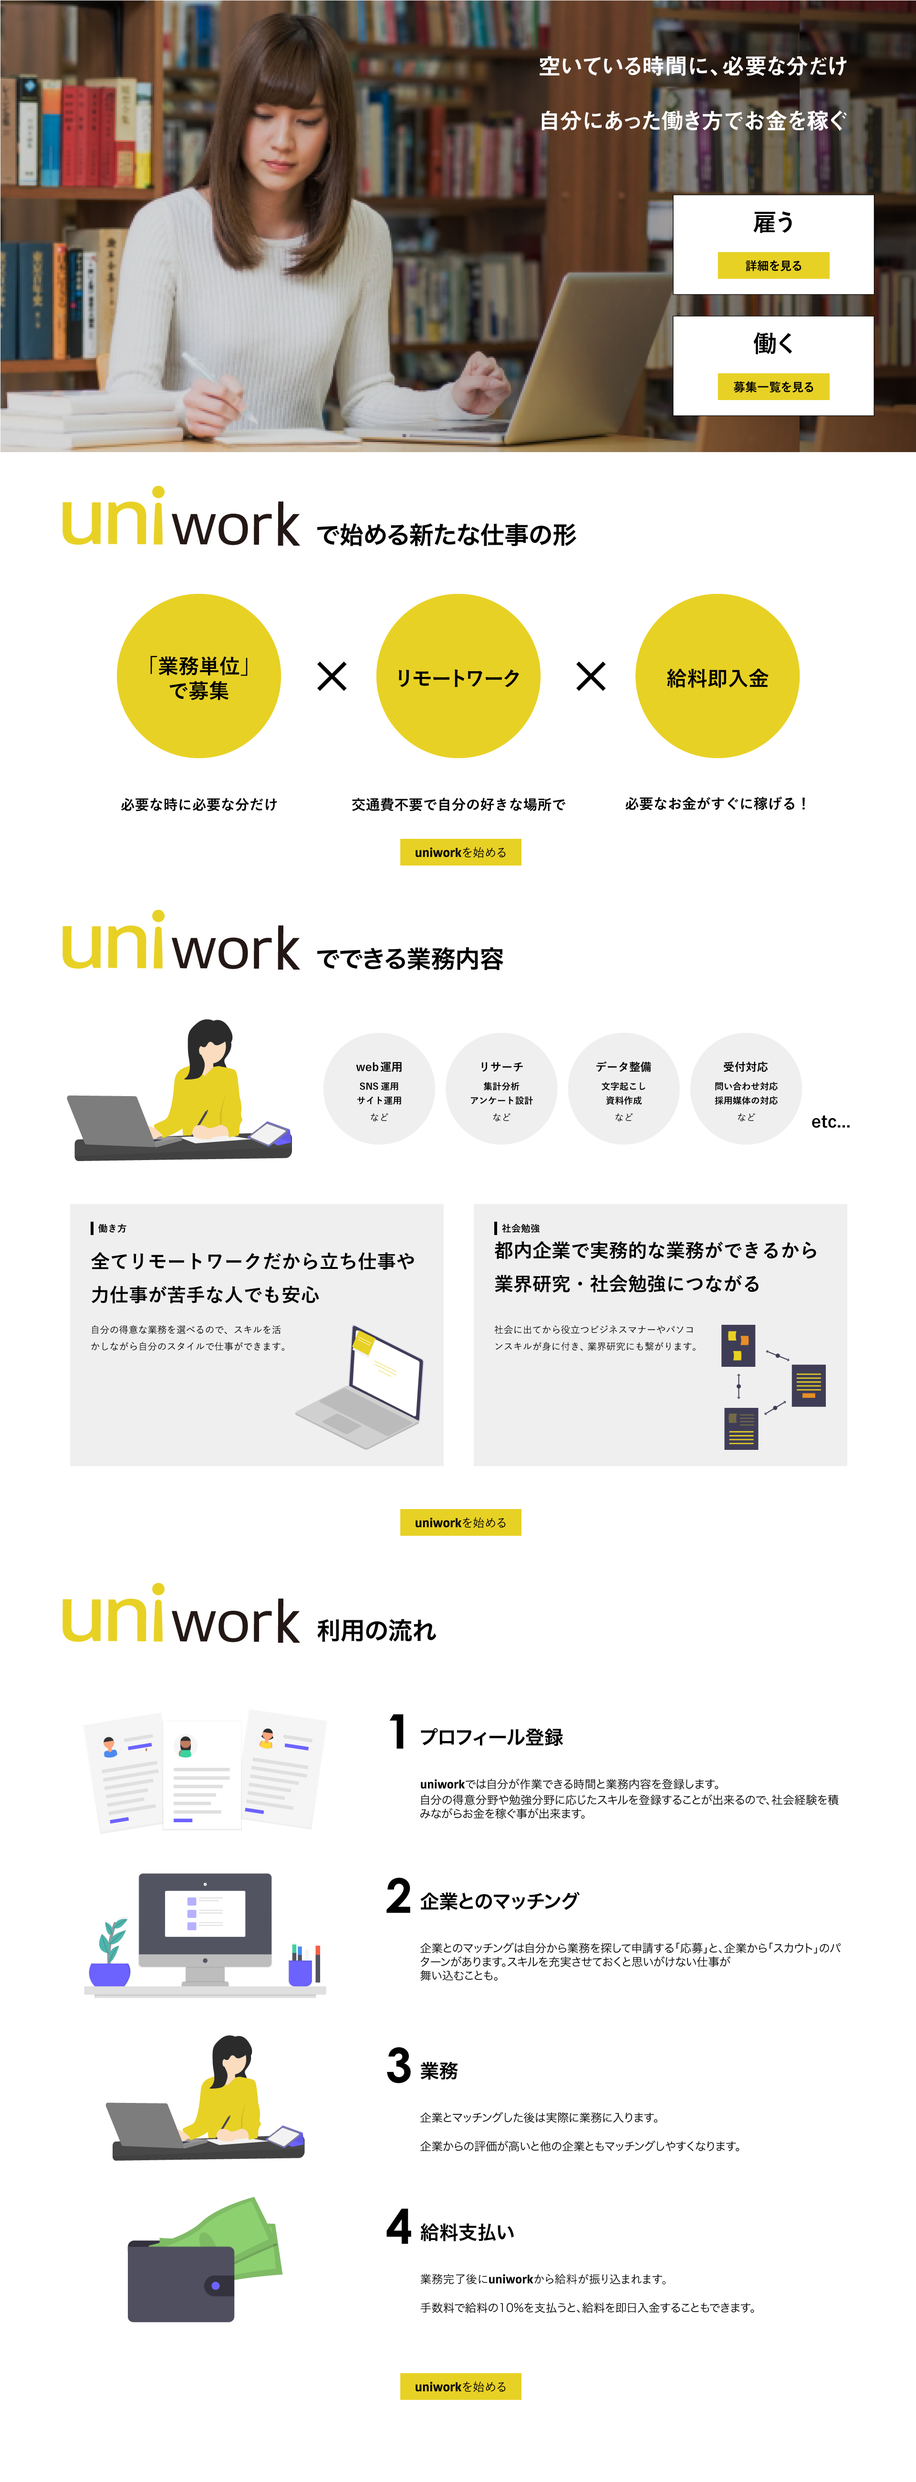
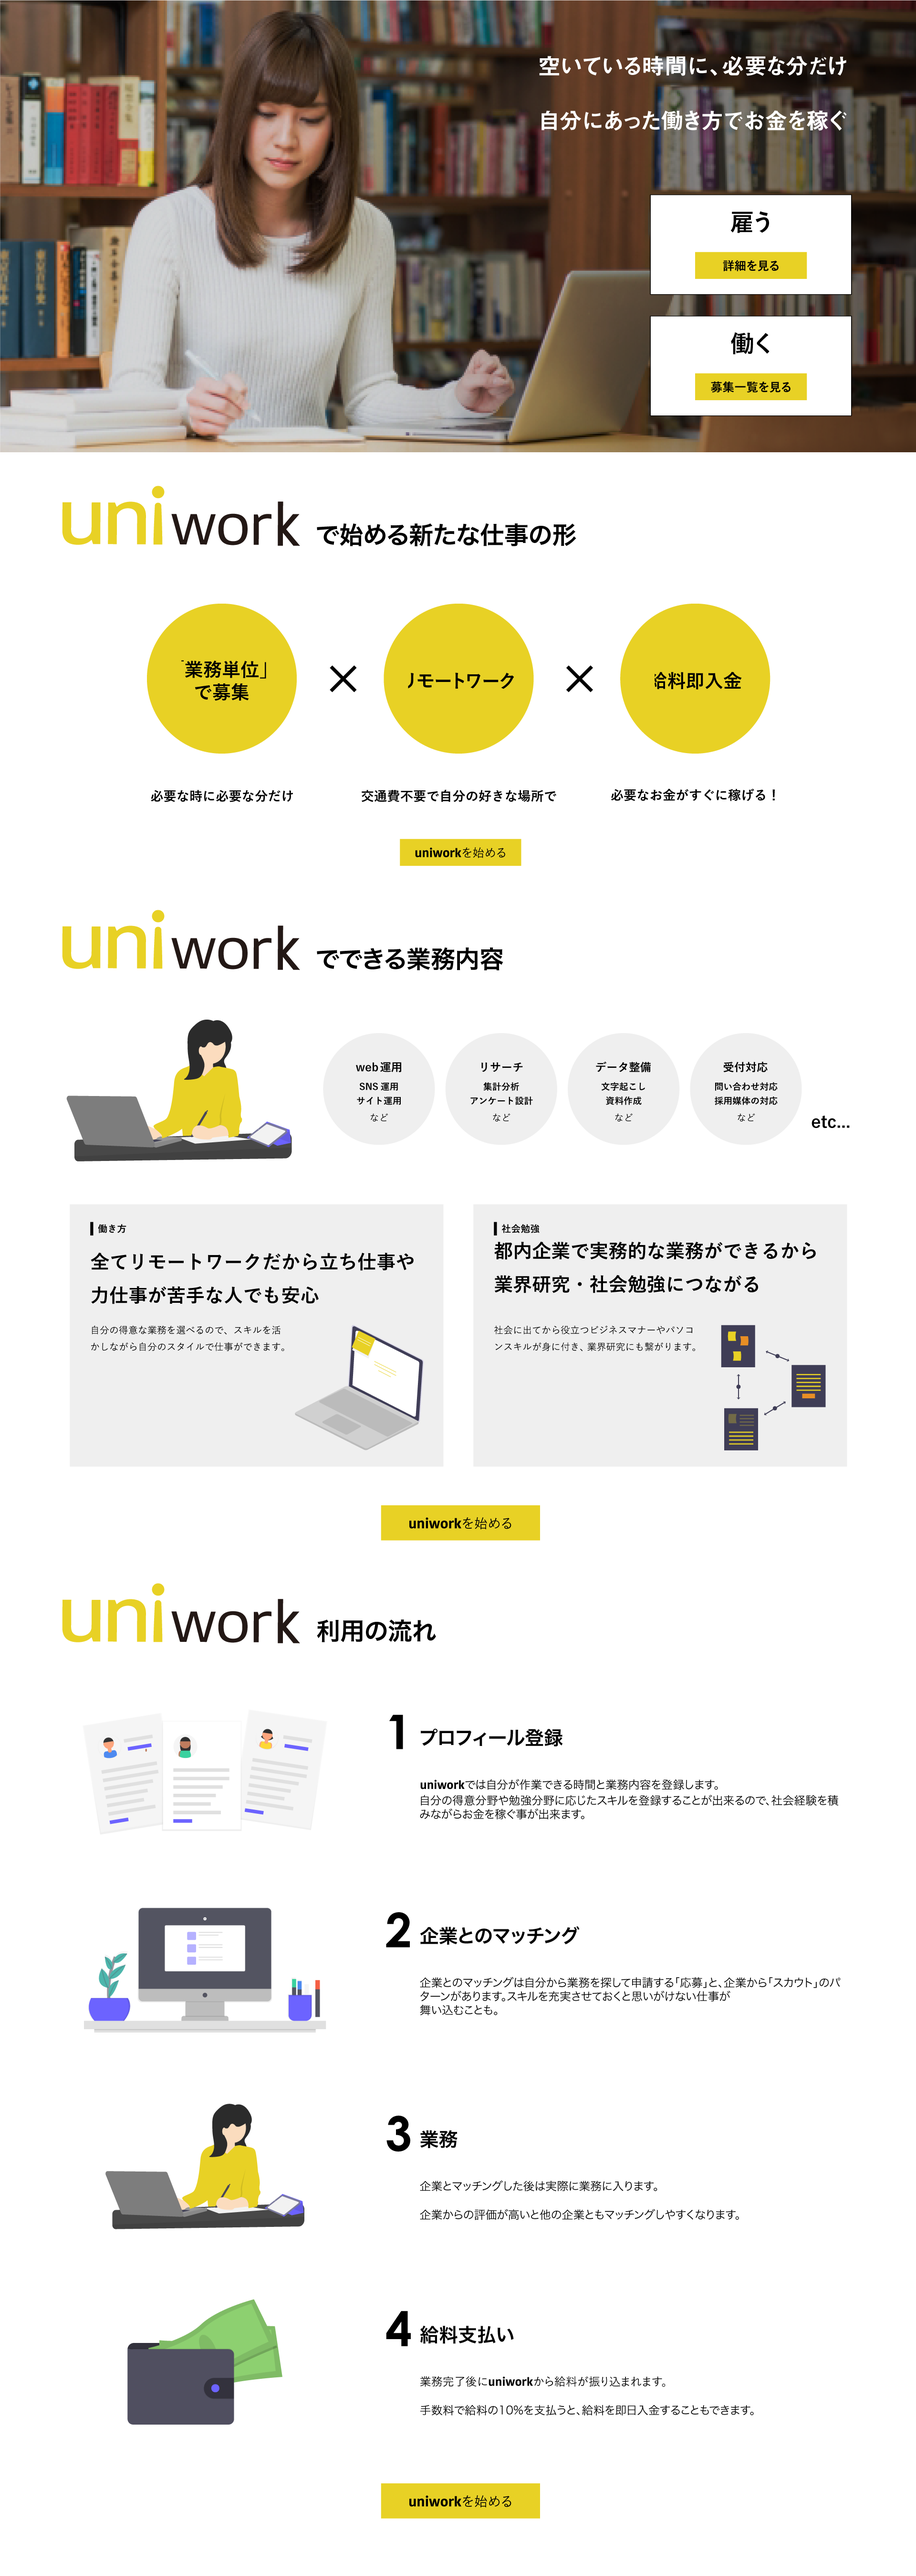
imgざわざわ

diff --git a/src/app/assets/stylesheets/application.css b/src/app/assets/stylesheets/application.css
@@ -1177,9 +1177,13 @@ button.prof-link-message{
 }
 .fa-ban:hover{
     color: rgb(231, 188, 17);
-
-.top-image {
+}
+div.top-image {
     width: 100%;
     margin-top: 60px;
+    height: auto;
+}
+img.top-image {
+    width: 100%;
     height: auto;
 }
